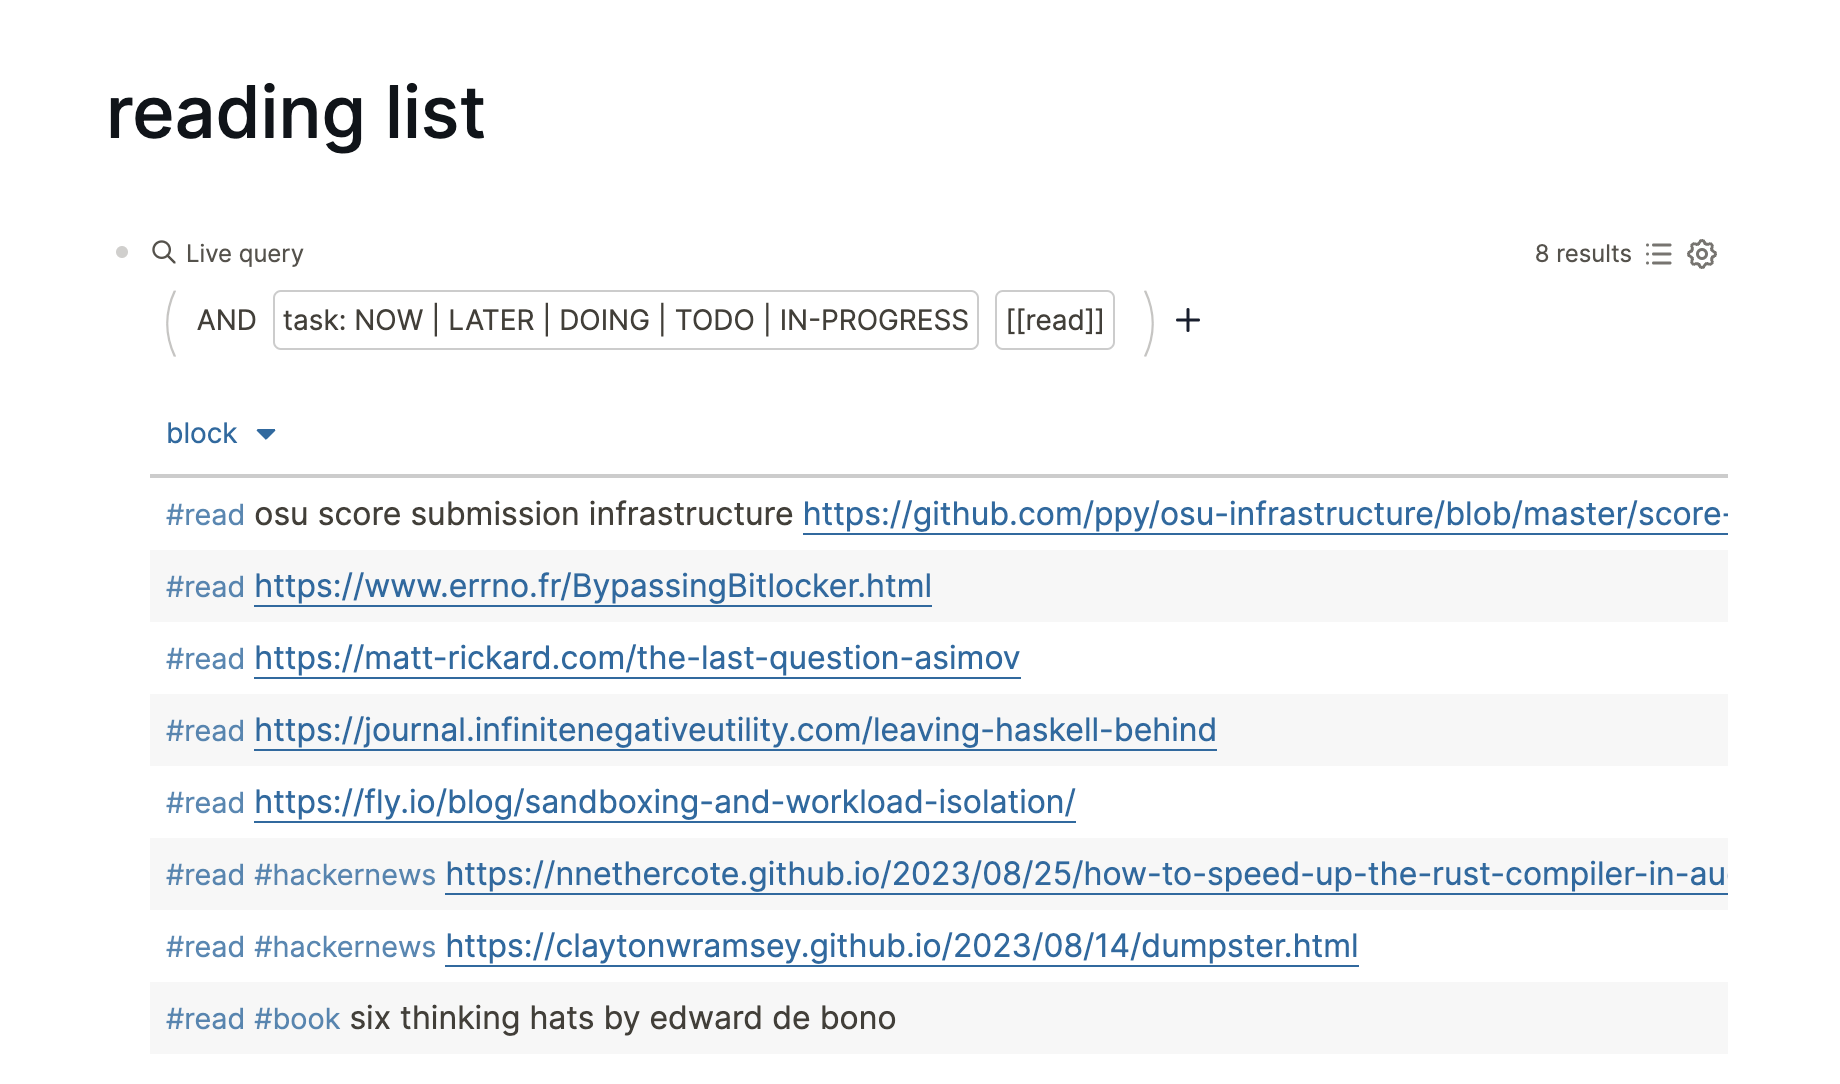
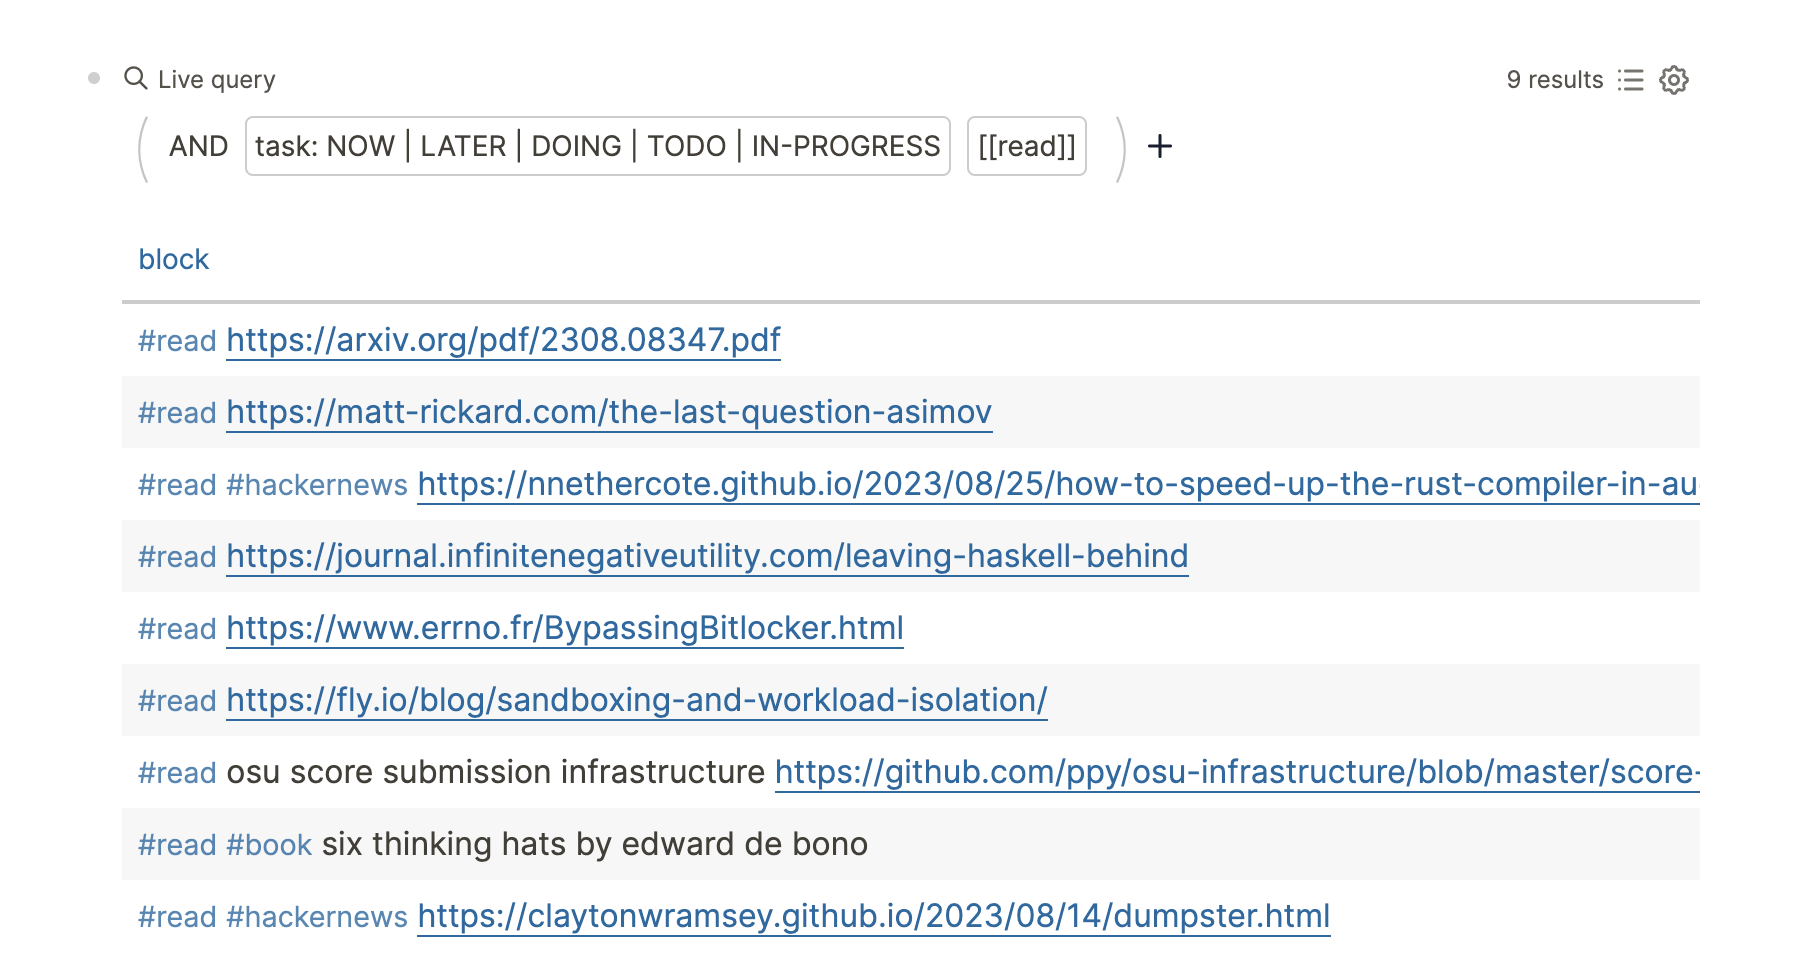
more changes

diff --git a/src/content/posts/2023-08-31-thoughts-on-organization/index.md b/src/content/posts/2023-08-31-thoughts-on-organization/index.md
@@ -67,38 +67,44 @@ to find previous instances of this or make any kind of history, I would have to
 essentially do a pure text search. However, with structured data this could be
 different.
 
-[Logseq], the app that I've settled on, is backed by a [Datascript] store and
-exposes a lot of this functionality to you as a user. It allows you to query
-directly on properties that you write into your daily journal or any other page,
-for example like this:
+[Logseq], the app that I've settled on, is backed by a real database, and most
+importantly exposes a lot of this functionality to you as a user. It allows you
+to query directly on properties that you write into your daily journal or any
+other page, for example like this:
 
-```
-- ... other content ...
-- minicross:: 34
-- ... other content ...
-```
+![recording some property in logseq](./minicross.png)
 
-I use this on my daily journals to track how long it takes me to do the [NY
-Times daily crossword][minicross]. But Logseq is able to index this property in
-particular and let me query on it later:
+What you're seeing is me using my daily journals to add a todo item for reading
+a paper and tracking how long it takes me to do the [NY Times daily
+crossword][minicross] (which I've shortened to minicross). I just add these to
+my journal as it comes up throughout my day, but Logseq is able to index this
+and serve it back to me in a very structured way:
 
 [datascript]: https://github.com/tonsky/datascript
 [minicross]: https://www.nytimes.com/crosswords/game/mini
 
 ![performing a query in logseq](./logseqQuery.png)
 
+With this, I could go on to construct a graph and see historical data of how I
+did over time. You can see how this could be used for more personal tracking
+things like workout records.
+
 The query tool is very simple and easy to learn, and makes it easy to actually
 _use_ the information you wrote down, instead of just burying it into oblivion.
-
 For example, I can write todo items inline in my journal and find them all at a
-time as well. As an example, here's all of the todo items that I've tagged
-specifically with the tag `#read`:
+time as well. Here's all of the todo items that I've tagged specifically with
+the tag `#read`:
 
 ![reading list in logseq](./readingList.png)
 
-The fact that it truly is a database means I can start piling things in here and
-automatically perform data extraction for a more complete picture of my daily
-life. In the future I'd like to do dumps for my sleep and health data as well
+Notice how the paper I added as a todo helpfully shows up here. No need for a
+separate todo list or planning tool!
+
+The fact that it truly is a database means I can just shove all kinds of
+unrelated information into my journal, do some very trivial labeling and get
+some really powerful uses out of it.
+
+In the future I'd like to do dumps for my sleep and health data as well
 and have Logseq be my ultimate source of truth. I've started developing a
 [calendar plugin for Logseq][2] that will have the ability to display numerical
 data using various visualizations for this purpose.
